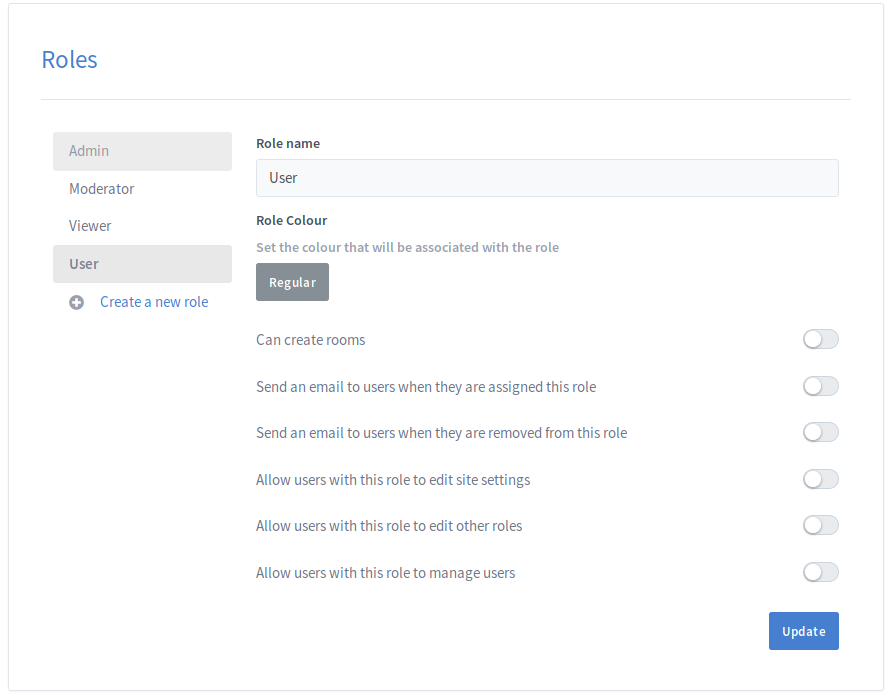
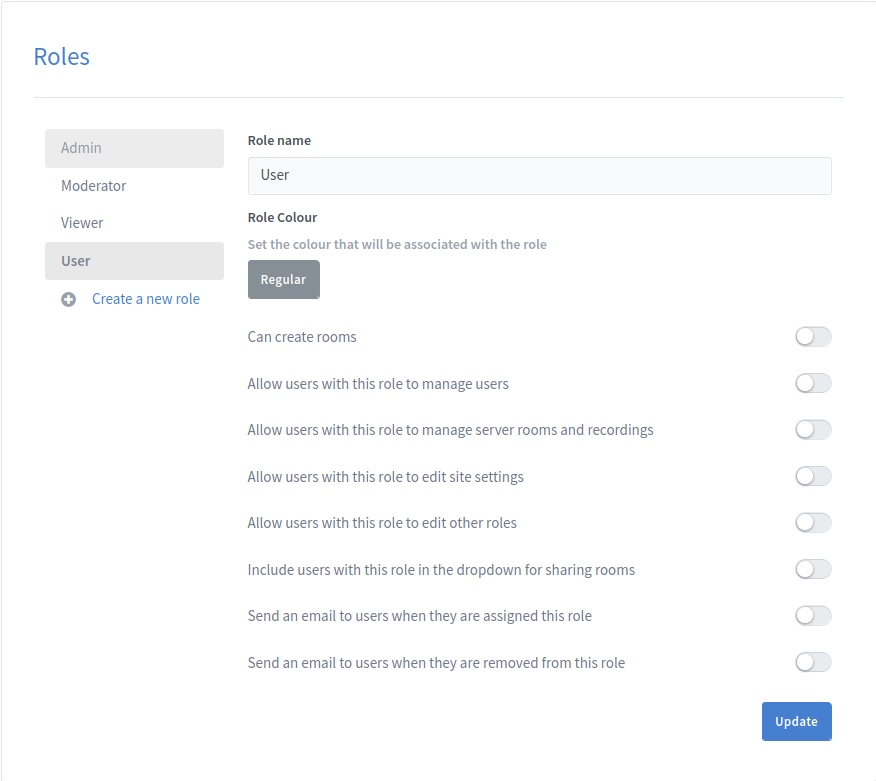
Updated role permissions

diff --git a/_posts/2019-04-15-gl-admin.md b/_posts/2019-04-15-gl-admin.md
@@ -270,7 +270,7 @@ By default, users that are not signed in can join any Room that has been started
 
 By default, all users that are able to create rooms are able to share rooms. Shared rooms can be entirely disabled by setting this setting to **Disabled**.
 
-In the Shared Access modal, users can share the room with another user by searching for that user's name or uid. If you do not want a specific role to be searchable in this dropdown, you can hide them from the list in the [Roles Permissions]().
+In the Shared Access modal, users can share the room with another user by searching for that user's name or uid. If you do not want a specific role to be searchable in this dropdown, you can hide them from the list in the [Roles Permissions](#editing-an-existing-role).
 
 ![Greenlight Administrator Share Access](/images/greenlight/admin_share_access.png)
 
@@ -327,13 +327,14 @@ Administrators are also able to update the permissions for the role. The followi
 
 | Permission               | Description |
 |:-----------------------|:------------|
-| Can create rooms                                           | This determines whether or not users with this role are able to create their own Greenlight rooms. |
-| Send an email to users when they are assigned this role     | This determines whether or not to send an email to users when they are promoted to this role |
-| Send an email to users when they are removed from this role | This determines whether or not to send an email to users when they are removed from this role |
-| Allow users with this role to edit site settings           | This allows users to access the Server Recordings and Site Settings tabs as if they were administrators |
-| Allow users with this role to edit other roles             | This allows users to access the Roles tab as if they were administrators |
-| Allow users with this role to manage other users           | This allows users to access the Manage Users tab as if they were administrators |
-
+| Can create rooms                                                | This determines whether or not users with this role are able to create their own Greenlight rooms. |
+| Allow users with this role to manage other users                | This allows users to access the Manage Users tab as if they were administrators |
+| Allow users with this role to view server rooms and recordings  | This allows users to access the Site Setting tabs as if they were administrators |
+| Allow users with this role to edit site settings                | This allows users to access the Site Setting tabs as if they were administrators |
+| Allow users with this role to edit other roles                  | This allows users to access the Roles tab as if they were administrators |
+| Include users with this role in the dropdown for sharing rooms  | This includes the user in the dropdown for sharing rooms |
+| Send an email to users when they are assigned this role         | This determines whether or not to send an email to users when they are promoted to this role |
+| Send an email to users when they are removed from this role     | This determines whether or not to send an email to users when they are removed from this role |
 
 **Note:** Administrators are unable to change the name for the user role or any of the permissions associated with the Admin role. Administrators are also only able to edit the permissions for roles with a lower priority than their own role.
 
